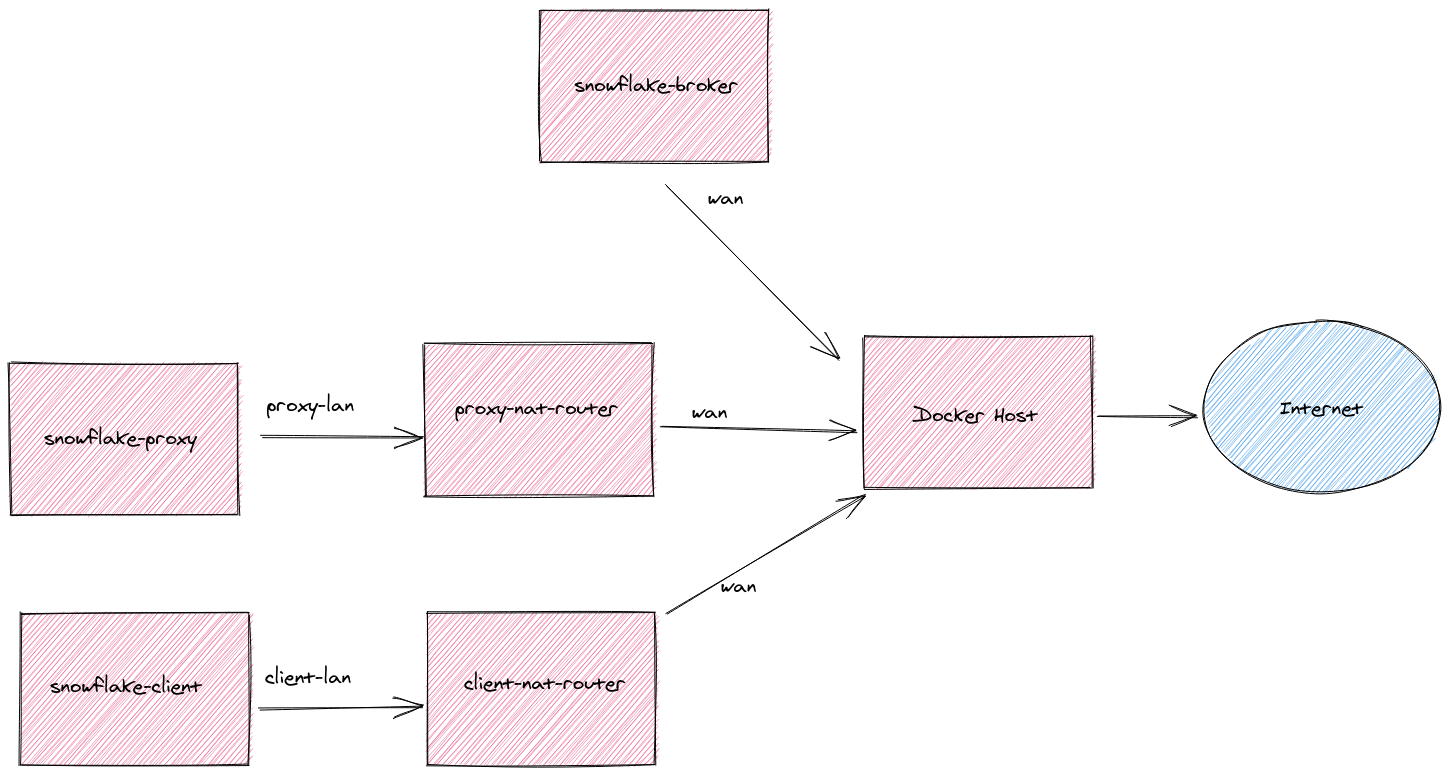
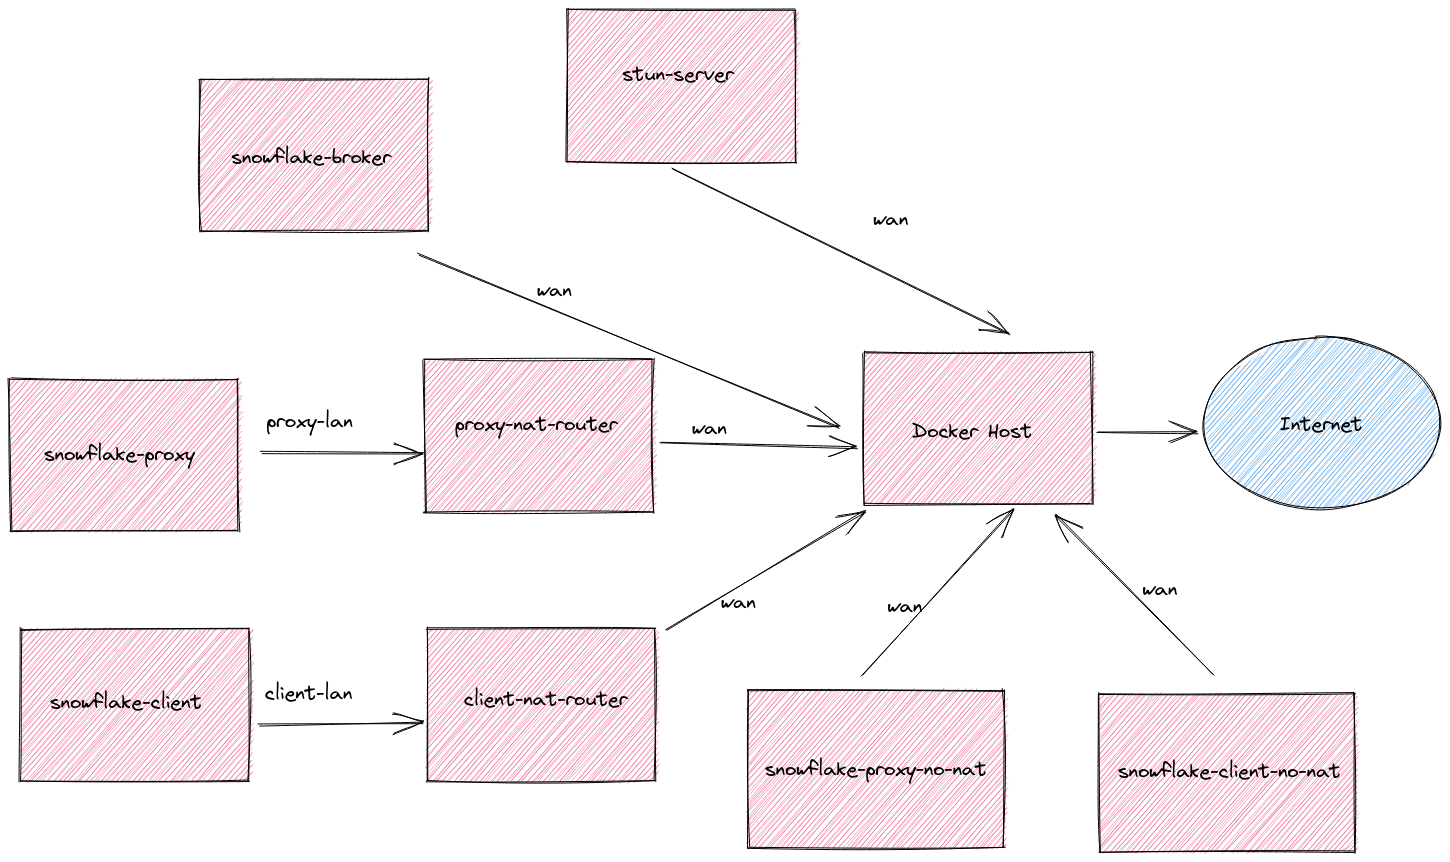
Improve documentation

diff --git a/README.md b/README.md
@@ -3,12 +3,15 @@
 This is a docker based testbed for evaluating [snowflake](https://gitlab.torproject.org/tpo/anti-censorship/pluggable-transports/snowflake) NAT traversal.
 
 ## Concepts
-This currently creates 5 services:
-- [snowflake-proxy](https://gitlab.torproject.org/tpo/anti-censorship/pluggable-transports/snowflake/-/tree/main/proxy)
+This currently creates 8 services:
+- A [snowflake-proxy](https://gitlab.torproject.org/tpo/anti-censorship/pluggable-transports/snowflake/-/tree/main/proxy) behind a nat router
+- A [snowflake-proxy](https://gitlab.torproject.org/tpo/anti-censorship/pluggable-transports/snowflake/-/tree/main/proxy) that's not behind a nat router
 - A nat router connecting the snowflake-proxy to the WAN network
-- [snowflake-client](https://gitlab.torproject.org/tpo/anti-censorship/pluggable-transports/snowflake/-/tree/main/client)
+- A [snowflake-client](https://gitlab.torproject.org/tpo/anti-censorship/pluggable-transports/snowflake/-/tree/main/client) behind a nat router
+- A [snowflake-client](https://gitlab.torproject.org/tpo/anti-censorship/pluggable-transports/snowflake/-/tree/main/client) that's not behind a nat router
 - A nat router connecting the snowflake-client to the WAN network
 - [snowflake-broker](https://gitlab.torproject.org/tpo/anti-censorship/pluggable-transports/snowflake/-/tree/main/broker)
+- A [TURN/STUN](https://hub.docker.com/r/coturn/coturn) server
 
 ## Topology
 ![nat-testing topology](./nat-testing.png) 
@@ -48,10 +51,31 @@ $ docker-compose exec snowflake-broker ps aux
 $ docker-compose exec proxy-nat-router /bin/sh
 ```
 
+Test if a client is successfully able to make a tor-proxied request:
+```
+$ docker-compose exec snowflake-client curl -x socks5h://localhost:9050 https://startpage.com
+$ docker-compose exec snowflake-client-no-nat curl -x socks5h://localhost:9050 https://startpage.com
+```
+(`snowflake-client-no-nat` is a snowflake-client that is not behind a NAT)
+
+Get logs from a service:
+```
+$ docker-compose logs -f snowflake-proxy
+$ docker-compose logs -f snowflake-proxy-no-nat
+$ docker-compose logs -f snowflake-client
+$ docker-compose logs -f snowflake-client-no-nat
+```
+
+Some logs are written to file instead of stdout, so you may need to tail them:
+```
+$ docker-compose exec snowflake-client-no-nat /usr/bin/tail -f /tmp/snowflake-client.log
+```
+
+
 ## Rebuilding
 The initial `docker-compose up` will build the relevant images, but subsequent executions will not. If you want to rebuild the container:
 ```
-$ docker-compose --build -d up
+$ docker-compose up --build -d
 ```
 
 ## Stopping
@@ -66,10 +90,6 @@ $ docker network prune
 ```
 
 ## NOTES:
-- With the default `stun-nat-behaviour` command, in order to reach the default stun server (stun.voip.blackberry.com:3478), the services will likely have to travel several NATs. 
-That would be due to the "WAN" being simulated. In reality, on a local docker testbed environment, the "WAN" will also be behind some type of NAT, which will affect the NAT that is detected.
-In order to effectively evaluate the actual behavior of the NAT re: our WAN, we'll need to run a TUN server attached to the "WAN" interface.
-
 - No snowflake-server/tor relay is included. We're currently depending on the external wss://snowflake.torproject.net/ websocket relay that the snowflake-proxy will connect to.
 
 - The broker is not behind a NAT. I think that's the expected deployment strategy. No fronting is occuring between the proxy/client and the broker.
